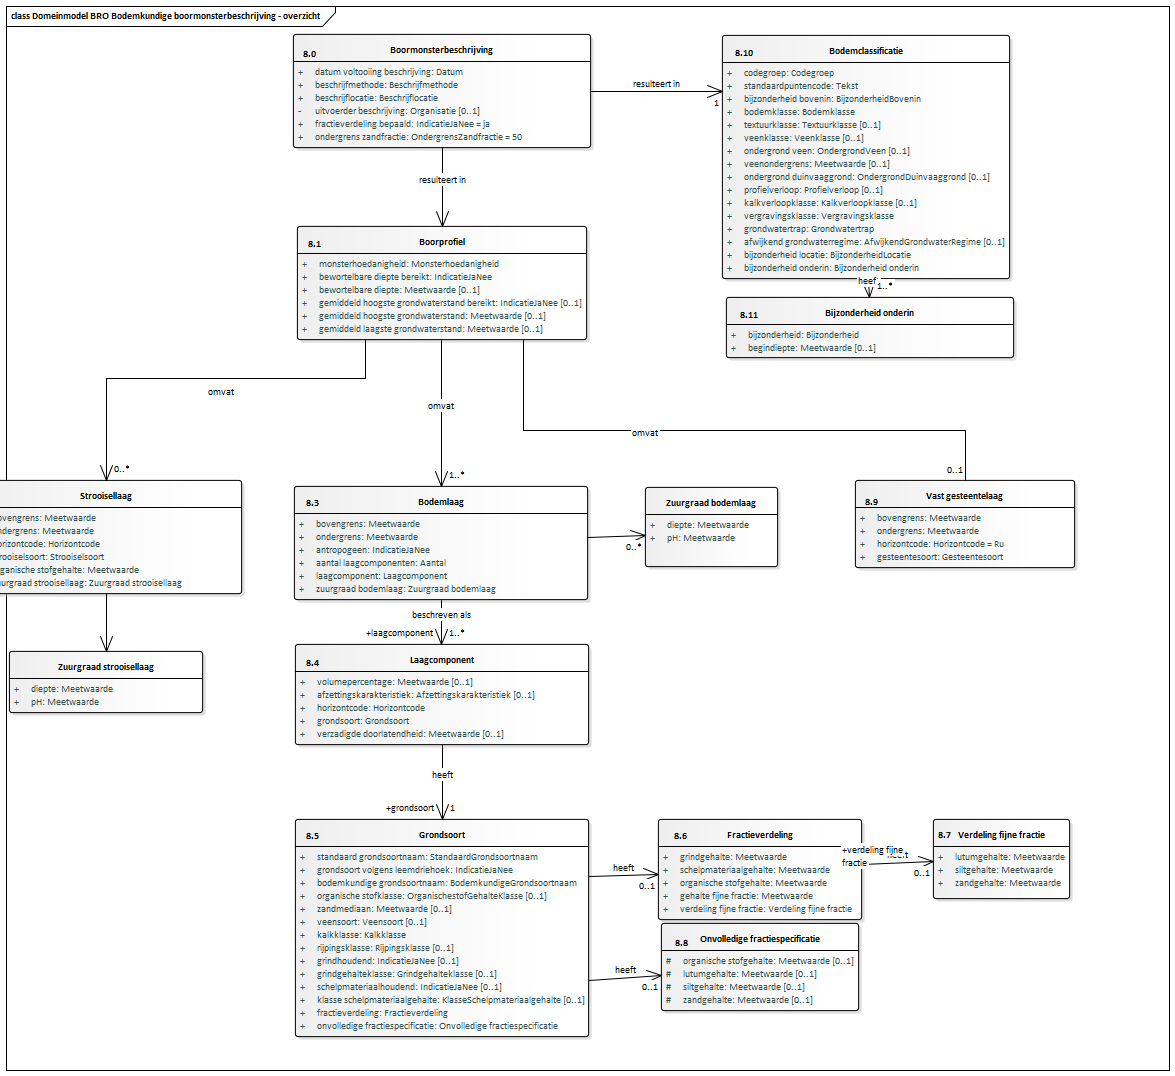
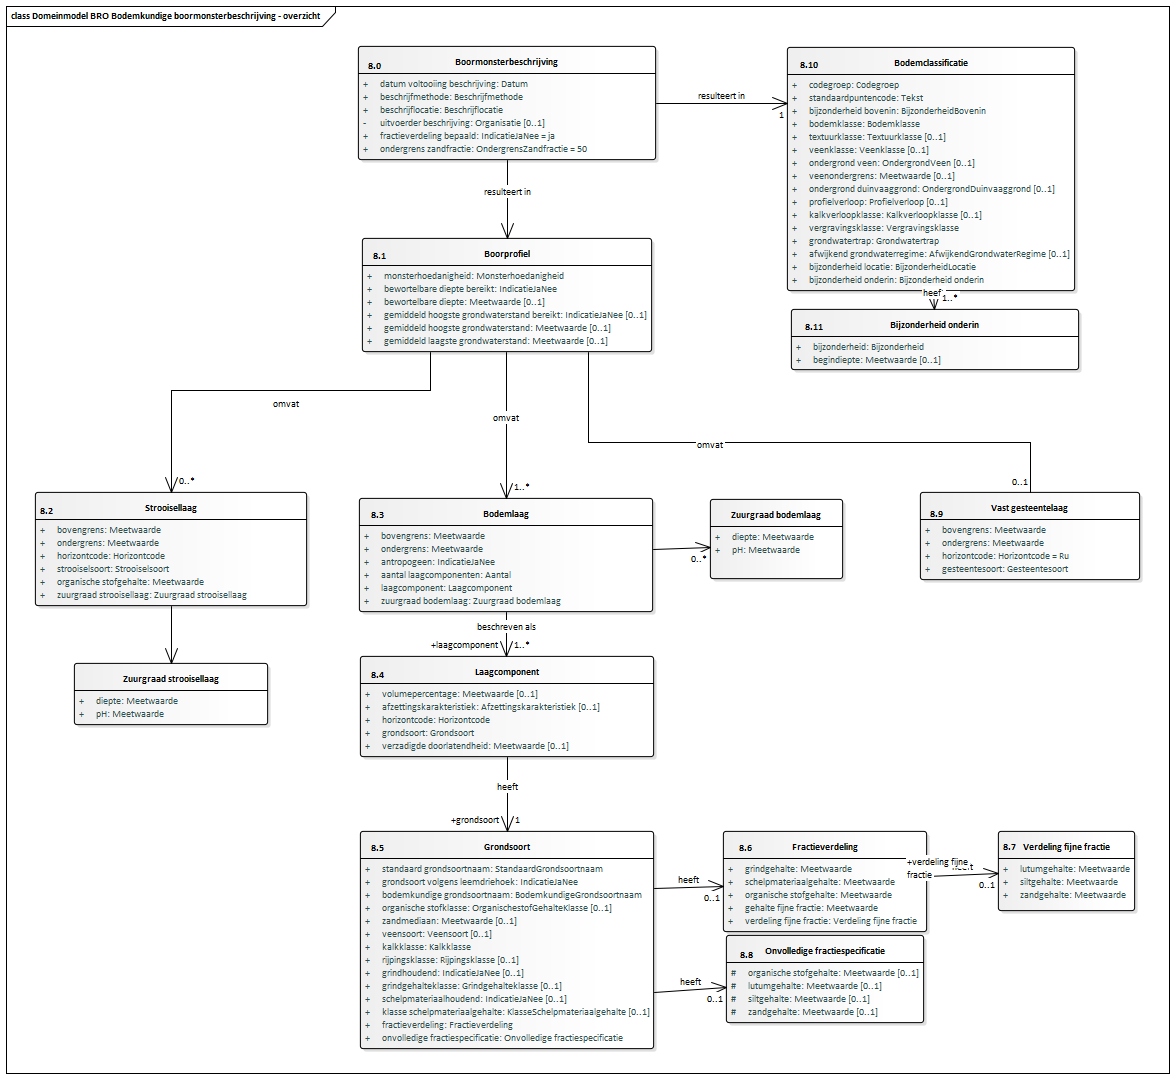
Conceptualmodel-BHR-Pconceptueel-MIM-1.9127november2019-1-20200214-20200303-145533

diff --git a/data/BHR-P-cat.msword.html b/data/BHR-P-cat.msword.html
@@ -13,7 +13,7 @@
    <body>
       <p>Conceptual model/BHR-P conceptueel - MIM/20200214</p>
       <p>Imvertor: 1.59.2</p>
-      <p>Model release: Conceptualmodel-BHR-Pconceptueel-MIM-1.9127november2019-1-20200214-20200303-133815</p>
+      <p>Model release: Conceptualmodel-BHR-Pconceptueel-MIM-1.9127november2019-1-20200214-20200303-145533</p>
       <hr>
       <section>
          <h1>Artikel 1 Definitie van registratieobject, entiteiten en attributen</h1>
@@ -70,20 +70,20 @@
             <h2>Het domeinmodel</h2>
             <section id="">
                <div class="imageinfo overview"><img src="Images/EAID_1C3500F1_E5BB_47e3_9CE1_BB98873D797A.png" usemap="#imagemap-EAID_1C3500F1_E5BB_47e3_9CE1_BB98873D797A" alt="Diagram "><map name="imagemap-EAID_1C3500F1_E5BB_47e3_9CE1_BB98873D797A">
-                     <area shape="rect" alt="Bodemclassificatie" coords="722,35,1010,279" href="#graph_EAID_CFE14268_F08B_4a20_BB74_3FEA8BBA0438">
-                     <area shape="rect" alt="Zuurgraad bodemlaag" coords="645,487,778,567" href="#graph_EAID_20864613_7F9B_4610_9180_7A919D60C45B">
-                     <area shape="rect" alt="Verdeling fijne fractie" coords="933,819,1070,899" href="#graph_EAID_60B04447_7B86_410e_B20F_D3CD115886D1">
-                     <area shape="rect" alt="Onvolledige fractiespecificatie" coords="661,923,859,1011" href="#graph_EAID_2882FB1B_C7C2_467c_AEBB_238330EEBFC0">
-                     <area shape="rect" alt="Fractieverdeling" coords="658,819,862,920" href="#graph_EAID_EF53B14C_3668_4ef9_934A_1FD39F3E0662">
-                     <area shape="rect" alt="Grondsoort" coords="295,819,589,1037" href="#graph_EAID_6335A71B_82D0_48a7_B08B_E14E5233FFFC">
-                     <area shape="rect" alt="Laagcomponent" coords="295,644,589,745" href="#graph_EAID_972B648E_F4A1_4a70_92B9_3383A5DB7706">
-                     <area shape="rect" alt="Vast gesteentelaag" coords="855,480,1075,568" href="#graph_EAID_53169F7B_05E8_438f_A558_2A98EA6E3BDE">
-                     <area shape="rect" alt="Bodemlaag" coords="294,486,588,600" href="#graph_EAID_BAEFD725_0B6B_4084_AB08_BC42F75343BC">
-                     <area shape="rect" alt="Bijzonderheid onderin" coords="726,297,1014,358" href="#graph_EAID_4B2108B5_2549_4222_B1C3_253785E10046">
-                     <area shape="rect" alt="Strooisellaag" coords="-30,480,242,594" href="#graph_EAID_53792607_43A9_402c_BCFF_E9A10589D199">
-                     <area shape="rect" alt="Boorprofiel" coords="297,226,587,340" href="#graph_EAID_E066634E_A30B_4f31_9447_9ADBF0419CB4">
-                     <area shape="rect" alt="Boormonsterbeschrijving" coords="293,34,591,148" href="#graph_EAID_697C344A_A1CE_4e19_A1E8_D608CAB8F0B2">
-                     <area shape="rect" alt="Zuurgraad strooisellaag" coords="9,651,203,713" href="#graph_EAID_50D04CCB_A0D6_4ec1_85EB_B23EC6D99A02"></map><p><b>Domeinmodel BRO Bodemkundige boormonsterbeschrijving</b></p>
+                     <area shape="rect" alt="Bodemclassificatie" coords="787,47,1075,291" href="#graph_EAID_CFE14268_F08B_4a20_BB74_3FEA8BBA0438">
+                     <area shape="rect" alt="Zuurgraad bodemlaag" coords="710,499,843,579" href="#graph_EAID_20864613_7F9B_4610_9180_7A919D60C45B">
+                     <area shape="rect" alt="Verdeling fijne fractie" coords="998,831,1135,911" href="#graph_EAID_60B04447_7B86_410e_B20F_D3CD115886D1">
+                     <area shape="rect" alt="Onvolledige fractiespecificatie" coords="726,935,924,1023" href="#graph_EAID_2882FB1B_C7C2_467c_AEBB_238330EEBFC0">
+                     <area shape="rect" alt="Fractieverdeling" coords="723,831,927,932" href="#graph_EAID_EF53B14C_3668_4ef9_934A_1FD39F3E0662">
+                     <area shape="rect" alt="Grondsoort" coords="360,831,654,1049" href="#graph_EAID_6335A71B_82D0_48a7_B08B_E14E5233FFFC">
+                     <area shape="rect" alt="Laagcomponent" coords="360,656,654,757" href="#graph_EAID_972B648E_F4A1_4a70_92B9_3383A5DB7706">
+                     <area shape="rect" alt="Vast gesteentelaag" coords="920,492,1140,580" href="#graph_EAID_53169F7B_05E8_438f_A558_2A98EA6E3BDE">
+                     <area shape="rect" alt="Bodemlaag" coords="359,498,653,612" href="#graph_EAID_BAEFD725_0B6B_4084_AB08_BC42F75343BC">
+                     <area shape="rect" alt="Bijzonderheid onderin" coords="791,309,1079,370" href="#graph_EAID_4B2108B5_2549_4222_B1C3_253785E10046">
+                     <area shape="rect" alt="Strooisellaag" coords="35,492,307,606" href="#graph_EAID_53792607_43A9_402c_BCFF_E9A10589D199">
+                     <area shape="rect" alt="Boorprofiel" coords="362,238,652,352" href="#graph_EAID_E066634E_A30B_4f31_9447_9ADBF0419CB4">
+                     <area shape="rect" alt="Boormonsterbeschrijving" coords="358,46,656,160" href="#graph_EAID_697C344A_A1CE_4e19_A1E8_D608CAB8F0B2">
+                     <area shape="rect" alt="Zuurgraad strooisellaag" coords="74,663,268,725" href="#graph_EAID_50D04CCB_A0D6_4ec1_85EB_B23EC6D99A02"></map><p><b>Domeinmodel BRO Bodemkundige boormonsterbeschrijving</b></p>
                </div>
                <div class="imageinfo overview"><img src="Images/EAID_6383BFB7_B0C0_44d9_9C7F_929703659479.png" usemap="#imagemap-EAID_6383BFB7_B0C0_44d9_9C7F_929703659479" alt="Diagram "><map name="imagemap-EAID_6383BFB7_B0C0_44d9_9C7F_929703659479">
                      <area shape="rect" alt="Bepaling waterretentie stapsgewijs" coords="37,769,278,1000" href="#graph_EAID_41CDAA8E_37BA_4dbe_843B_C18C720DC286">
